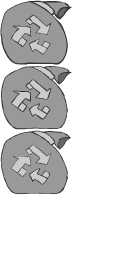
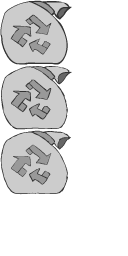
Updating sprites on android

Changed region(s): [[0.0, 0.0, 0.5312, 0.7812]]

diff --git a/GameCore/Game1.cs b/GameCore/Game1.cs
@@ -21,9 +21,11 @@ namespace PaperWork
 
             new Grid(World);
 
+            CreateTouchInputs();
+        }
 
-
-
+        private void CreateTouchInputs()
+        {
             var btnWidth = 1000;
             var btnHeight = 900;
             var space = 1;
@@ -33,10 +35,10 @@ namespace PaperWork
             World.Add(new TouchButton(xAnchor, yAnchor, btnWidth - space, btnHeight - space, f => World.PlayerInputs.Up = World.PlayerInputs.Left = f));
             World.Add(new TouchButton(xAnchor + btnWidth, yAnchor, btnWidth - space, btnHeight - space, f => World.PlayerInputs.Up = f));
             World.Add(new TouchButton(xAnchor + btnWidth * 2, yAnchor, btnWidth - space, btnHeight - space, f => World.PlayerInputs.Up = World.PlayerInputs.Right = f));
-            
+
             World.Add(new TouchButton(xAnchor, yAnchor + btnHeight, btnWidth + btnWidth / 2 - space, btnHeight - space, f => World.PlayerInputs.Left = f));
             World.Add(new TouchButton(xAnchor + btnWidth + btnWidth / 2, yAnchor + btnHeight, btnWidth + btnWidth / 2 - space, btnHeight - space, f => World.PlayerInputs.Right = f));
-            
+
             World.Add(new TouchButton(xAnchor, yAnchor + btnHeight * 2, btnWidth - space, btnHeight - space, f => World.PlayerInputs.Down = World.PlayerInputs.Left = f));
             World.Add(new TouchButton(xAnchor + btnWidth, yAnchor + btnHeight * 2, btnWidth - space, btnHeight - space, f => World.PlayerInputs.Down = f));
             World.Add(new TouchButton(xAnchor + btnWidth * 2, yAnchor + btnHeight * 2, btnWidth - space, btnHeight - space, f => World.PlayerInputs.Down = World.PlayerInputs.Right = f));

diff --git a/GameCore/ActualCore/TouchButton.cs b/GameCore/ActualCore/TouchButton.cs
@@ -1,4 +1,5 @@
 using GameCore.ActualCore;
+using Microsoft.Xna.Framework;
 using System;
 using System.Collections.Generic;
 
@@ -8,9 +9,9 @@ namespace GameCore
     {
         private readonly Action<bool> SetValue;
 
-        private Animation buttonUp;
-        private Animation Current;
-        private Animation buttonDown;
+        private SimpleAnimation buttonUp;
+        private SimpleAnimation Current;
+        private SimpleAnimation buttonDown;
 
         public int X { get; set; }
         public int Y { get; set; }
@@ -29,9 +30,12 @@ namespace GameCore
 
             var offsetX = (Width / 100) * 5;
             var offsetY = (Height / 100) * 5;
-            ;
+
             buttonUp = GeneratedContent.Create_touch_inputs_button(-offsetX, -offsetY, 0, Width + offsetX, Height + offsetY);
+            buttonUp.ChangeColor(new Color(253, 225, 21));
             buttonDown = GeneratedContent.Create_touch_inputs_button_pressed(0, 0, 0, Width, Height);
+            buttonDown.ChangeColor(new Color(253, 205, 1));
+
             Current = buttonUp;
         }
 

diff --git a/GameCore/ActualCore/BaseGame.cs b/GameCore/ActualCore/BaseGame.cs
@@ -83,7 +83,7 @@ namespace GameCore
                        cam.get_transformation(GraphicsDevice));
 
             var entiies = World.GetColliders();
-            var drawColliders = true;
+            var drawColliders = false;
 
             if (entiies == null)
                 return;
